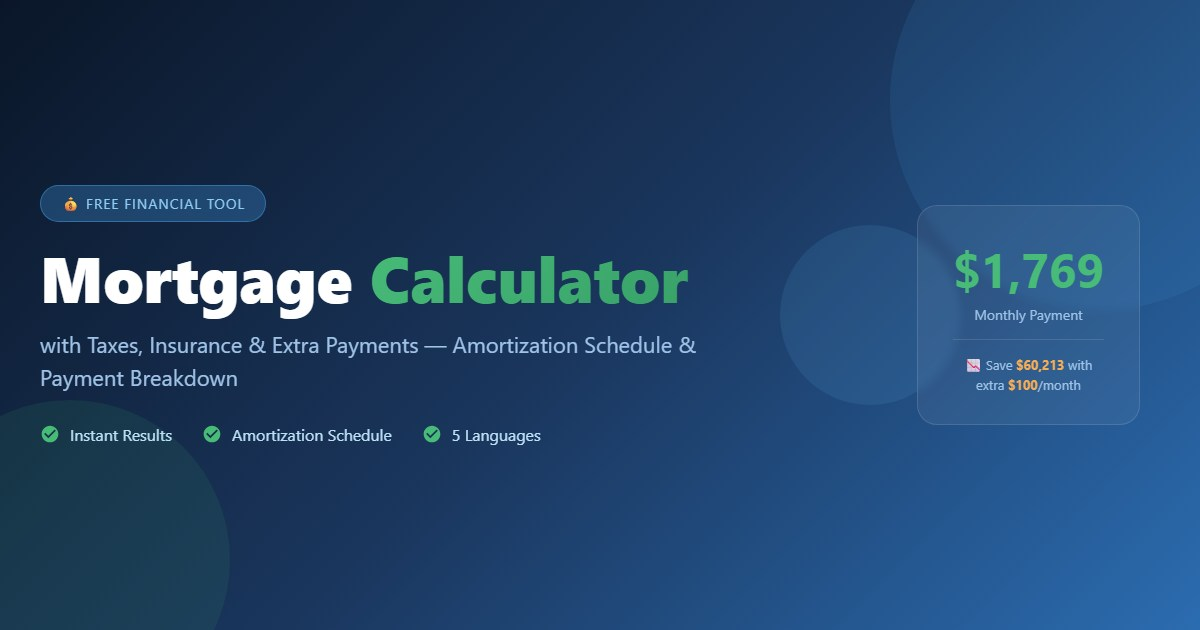
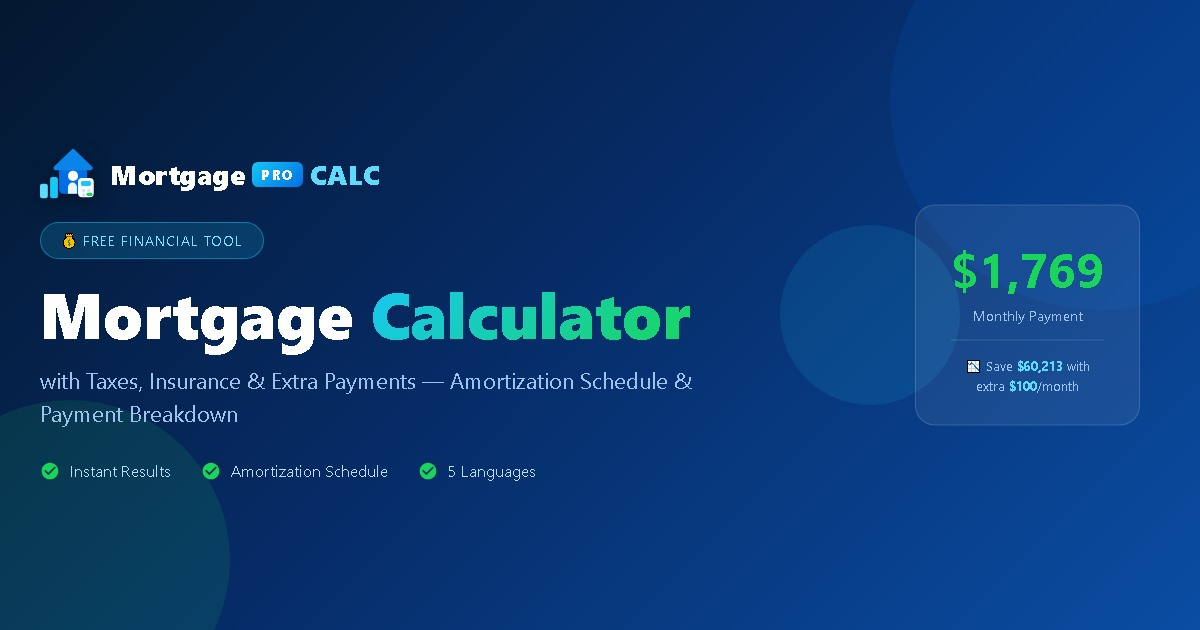
feat(brand): card social OG com nova identidade e sem scripts de rastreio

diff --git a/assets/img/og-image.html b/assets/img/og-image.html
@@ -1,134 +1,87 @@
 <!DOCTYPE html>
 <!--
-  og-image.html — Open Graph image (1200x630)
-  Render this file at exactly 1200x630 to produce the share image:
-    Edge (Windows):  msedge --headless --disable-gpu --screenshot="mortgage-calculator-og.png"
-                     --window-size=1200,630 "file:///.../og-image.html"
-    Chrome (Windows): chrome  --headless --disable-gpu --screenshot=... --window-size=1200,630 ...
-  The PNG is then converted to JPG at assets/img/mortgage-calculator-og-image.jpg.
+  og-image.html - Open Graph share card (1200x630)
+  Render at exactly 1200x630 and convert the PNG to JPG at
+  assets/img/mortgage-calculator-og-image.jpg :
+    chrome --headless --disable-gpu --screenshot=og.png --window-size=1200,630 "file:///.../og-image.html"
 -->
-<!DOCTYPE html>
 <html lang="en">
 <head>
-  <meta charset="UTF-8">
-  <!-- Google Consent Mode v2 (default consent: EEA/UK/CH denied, rest granted) -->
-  <script data-cookieconsent="ignore">
-    window.dataLayer = window.dataLayer || [];
-    function gtag(){dataLayer.push(arguments);}
-    gtag('consent', 'default', {
-      'ad_personalization': 'denied',
-      'ad_storage': 'denied',
-      'ad_user_data': 'denied',
-      'analytics_storage': 'denied',
-      'functionality_storage': 'denied',
-      'personalization_storage': 'denied',
-      'security_storage': 'granted',
-      'region': [
-        'GB','AT','BE','BG','CH','CY','DE','DK','EE','ES','FI',
-        'FR','GG','GR','HR','HU','IE','IM','IT','JE','LT','LU',
-        'LV','MT','NL','PL','PT','RO','SE','SI','SK'
-      ],
-      'wait_for_update': 500
-    });
-    gtag('consent', 'default', {
-      'ad_personalization': 'granted',
-      'ad_storage': 'granted',
-      'ad_user_data': 'granted',
-      'analytics_storage': 'granted',
-      'functionality_storage': 'granted',
-      'personalization_storage': 'granted',
-      'security_storage': 'granted',
-      'wait_for_update': 500
-    });
-    gtag('set', 'ads_data_redaction', true);
-    gtag('set', 'url_passthrough', false);
-  </script>
-
-  <!-- Cookiebot CMP (Google-certified: Consent Mode v2 + Microsoft Clarity Consent Mode) -->
-  <script id="Cookiebot" src="https://consent.cookiebot.com/uc.js" data-cbid="d817fd6b-d033-4ae1-8682-d2b44b49a66a" data-blockingmode="auto" type="text/javascript"></script>
-  <!-- Google tag (gtag.js) -->
-  <script async src="https://www.googletagmanager.com/gtag/js?id=G-G5FRBTR588"></script>
-  <script>
-    window.dataLayer = window.dataLayer || [];
-    function gtag(){dataLayer.push(arguments);}
-    gtag('js', new Date());
-    gtag('config', 'G-G5FRBTR588');
-  </script>
-
-  <!-- Microsoft Clarity -->
-  <script type="text/javascript">
-    (function(c,l,a,r,i,t,y){
-        c[a]=c[a]||function(){(c[a].q=c[a].q||[]).push(arguments)};
-        t=l.createElement(r);t.async=1;t.src="https://www.clarity.ms/tag/"+i;
-        y=l.getElementsByTagName(r)[0];y.parentNode.insertBefore(t,y);
-    })(window, document, "clarity", "script", "y3enp4munj");
-  </script>
-  <style>
-    * { margin: 0; padding: 0; box-sizing: border-box; }
-    html, body { width: 1200px; height: 630px; overflow: hidden; }
-    body {
-      background: linear-gradient(135deg, #0a1628 0%, #1a365d 50%, #2b6cb0 100%);
-      font-family: 'Segoe UI', 'Segoe UI Variable Display', Arial, sans-serif;
-      display: flex;
-      align-items: center;
-      justify-content: center;
-      padding: 40px;
-      position: relative;
-    }
-    /* Elementos decorativos */
-    .circle { position: absolute; border-radius: 50%; opacity: 0.12; }
-    .circle-1 { width: 420px; height: 420px; background: #4299e1; top: -110px; right: -110px; }
-    .circle-2 { width: 320px; height: 320px; background: #38a169; bottom: -90px; left: -90px; }
-    .circle-3 { width: 180px; height: 180px; background: #63b3ed; top: 50%; right: 240px; transform: translateY(-50%); }
-    .content { position: relative; z-index: 1; width: 100%; height: 100%; display: flex; flex-direction: column; justify-content: center; color: #fff; }
-    .badge {
-      display: inline-block;
-      background: rgba(66, 153, 225, 0.3);
-      border: 1px solid rgba(66, 153, 225, 0.5);
-      padding: 8px 20px;
-      border-radius: 50px;
-      font-size: 14px;
-      color: #90cdf4;
-      margin-bottom: 20px;
-      align-self: flex-start;
-      letter-spacing: 1px;
-      text-transform: uppercase;
-    }
-    h1 { font-size: 64px; font-weight: 800; line-height: 1.08; margin-bottom: 16px; max-width: 760px; }
-    h1 span {
-      background: linear-gradient(135deg, #48bb78, #38a169);
-      -webkit-background-clip: text;
-      -webkit-text-fill-color: transparent;
-    }
-    p { font-size: 22px; color: #a0c4e8; max-width: 660px; line-height: 1.5; margin-bottom: 30px; }
-    .features { display: flex; gap: 30px; flex-wrap: wrap; }
-    .features div { display: flex; align-items: center; gap: 10px; font-size: 16px; color: #bee3f8; }
-    .features svg { width: 20px; height: 20px; fill: #48bb78; flex: none; }
-    .right {
-      position: absolute;
-      right: 60px;
-      top: 50%;
-      transform: translateY(-50%);
-      background: rgba(255, 255, 255, 0.06);
-      padding: 30px 35px;
-      border-radius: 20px;
-      border: 1px solid rgba(255, 255, 255, 0.12);
-      text-align: center;
-      min-width: 220px;
-      backdrop-filter: blur(4px);
-    }
-    .right .amount { font-size: 48px; font-weight: 700; color: #48bb78; }
-    .right .label { font-size: 14px; color: #a0c4e8; margin-top: 5px; }
-    .right .sub {
-      font-size: 13px;
-      color: #a0c4e8;
-      margin-top: 15px;
-      border-top: 1px solid rgba(255, 255, 255, 0.12);
-      padding-top: 15px;
-      line-height: 1.5;
-    }
-    .right .sub b { color: #f6ad55; }
-  </style>
+<meta charset="UTF-8">
+<style>
+  * { margin: 0; padding: 0; box-sizing: border-box; }
+  html, body { width: 1200px; height: 630px; overflow: hidden; }
+  body {
+    background: linear-gradient(135deg, #04182F 0%, #062B66 45%, #0A4DA3 100%);
+    font-family: 'Segoe UI', 'Segoe UI Variable Display', Arial, sans-serif;
+    display: flex;
+    align-items: center;
+    justify-content: center;
+    padding: 40px;
+    position: relative;
+  }
+  .circle { position: absolute; border-radius: 50%; opacity: 0.12; }
+  .circle-1 { width: 420px; height: 420px; background: #006FE6; top: -110px; right: -110px; }
+  .circle-2 { width: 320px; height: 320px; background: #19D65B; bottom: -90px; left: -90px; }
+  .circle-3 { width: 180px; height: 180px; background: #16C7F7; top: 50%; right: 240px; transform: translateY(-50%); }
+  .content { position: relative; z-index: 1; width: 100%; height: 100%; display: flex; flex-direction: column; justify-content: center; color: #fff; }
+  .brand-row { display: flex; align-items: center; gap: 14px; margin-bottom: 22px; }
+  .brand-row svg { width: 56px; height: auto; filter: drop-shadow(0 4px 10px rgba(0,0,0,.35)); }
+  .wordmark { display: flex; align-items: center; gap: 7px; font-size: 27px; font-weight: 800; letter-spacing: .5px; }
+  .wordmark .pro {
+    background: linear-gradient(135deg, #16C7F7, #006FE6);
+    color: #fff; font-size: 13px; font-weight: 900;
+    padding: 4px 9px; border-radius: 6px; letter-spacing: 1.5px;
+  }
+  .wordmark .calc { color: #5EDAFB; }
+  .badge {
+    display: inline-block;
+    background: rgba(22, 199, 247, 0.16);
+    border: 1px solid rgba(22, 199, 247, 0.45);
+    padding: 8px 20px;
+    border-radius: 50px;
+    font-size: 14px;
+    color: #7FE1FC;
+    margin-bottom: 20px;
+    align-self: flex-start;
+    letter-spacing: 1px;
+    text-transform: uppercase;
+  }
+  h1 { font-size: 64px; font-weight: 800; line-height: 1.08; margin-bottom: 16px; max-width: 760px; }
+  h1 span {
+    background: linear-gradient(135deg, #16C7F7, #19D65B);
+    -webkit-background-clip: text;
+    background-clip: text;
+    -webkit-text-fill-color: transparent;
+  }
+  p { font-size: 22px; color: #9DC3EE; max-width: 660px; line-height: 1.5; margin-bottom: 30px; }
+  .features { display: flex; gap: 30px; flex-wrap: wrap; }
+  .features div { display: flex; align-items: center; gap: 10px; font-size: 16px; color: #BFDCF5; }
+  .features svg { width: 20px; height: 20px; fill: #19D65B; flex: none; }
+  .right {
+    position: absolute;
+    right: 60px;
+    top: 50%;
+    transform: translateY(-50%);
+    background: rgba(255, 255, 255, 0.07);
+    padding: 30px 35px;
+    border-radius: 20px;
+    border: 1px solid rgba(255, 255, 255, 0.15);
+    text-align: center;
+    min-width: 220px;
+  }
+  .right .amount { font-size: 48px; font-weight: 700; color: #19D65B; }
+  .right .label { font-size: 14px; color: #9DC3EE; margin-top: 5px; }
+  .right .sub {
+    font-size: 13px;
+    color: #9DC3EE;
+    margin-top: 15px;
+    border-top: 1px solid rgba(255, 255, 255, 0.15);
+    padding-top: 15px;
+    line-height: 1.5;
+  }
+  .right .sub b { color: #5EDAFB; }
+</style>
 </head>
 <body>
   <div class="circle circle-1"></div>
@@ -136,6 +89,25 @@
   <div class="circle circle-3"></div>
 
   <div class="content">
+    <div class="brand-row">
+      <svg viewBox="13 10 50 46" aria-hidden="true">
+        <rect x="13" y="41" width="7" height="13" rx="2" fill="#5EDAFB"/>
+        <rect x="22" y="35" width="7" height="19" rx="2" fill="#16C7F7"/>
+        <rect x="30" y="26" width="25" height="24" rx="4" fill="#006FE6"/>
+        <polygon points="27,27 42.5,12 58,27" fill="#0A84E8" stroke="#0A84E8" stroke-width="4" stroke-linejoin="round"/>
+        <circle cx="42.5" cy="34" r="4.5" fill="#FFFFFF"/>
+        <path d="M38,50 v-6 a4,4 0 0 1 8,0 v6 z" fill="#EAF6FF"/>
+        <rect x="47" y="36" width="14" height="17" rx="3.5" fill="#FFFFFF"/>
+        <rect x="49.5" y="38.5" width="9" height="4.5" rx="1.5" fill="#16C7F7"/>
+        <circle cx="52" cy="47" r="1.4" fill="#C9E4F8"/>
+        <circle cx="56.5" cy="47" r="1.4" fill="#C9E4F8"/>
+        <circle cx="52" cy="51" r="1.4" fill="#C9E4F8"/>
+        <rect x="54.5" y="49" width="5.5" height="3" rx="1.5" fill="#19D65B"/>
+      </svg>
+      <div class="wordmark">
+        Mortgage<span class="pro">PRO</span><span class="calc">CALC</span>
+      </div>
+    </div>
     <div class="badge">&#128176; Free Financial Tool</div>
     <h1>Mortgage <span>Calculator</span></h1>
     <p>with Taxes, Insurance &amp; Extra Payments &mdash; Amortization Schedule &amp; Payment Breakdown</p>
